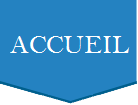
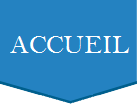
Revert "short link"
This reverts commit 11b1d239938d4fd386f1d654bec510ad1fd1024d.

diff --git a/articles.php b/articles.php
@@ -74,7 +74,7 @@
                     $au=$compteur + 1 - htmlspecialchars($donnees['article_uid']);
                     echo '<p class="mode mode'.$au.'" data-bg="'.$au.'">
                          <br/>        <span class="titreArticle">     '.htmlspecialchars($donnees[$nom]).'      </span>
-                          <br/> <br/> <a class="btn btn-lg btn-primary"  href="/'.htmlspecialchars($donnees['article_uid']).'"> <span style="display:block; font-size: 30px; font-weight: normal;font-family: inherit;"> '.$voirlarticle.'</span> </a>
+                          <br/> <br/> <a class="btn btn-lg btn-primary"  href="article.php?id='.htmlspecialchars($donnees['article_uid']).'"> <span style="display:block; font-size: 30px; font-weight: normal;font-family: inherit;"> '.$voirlarticle.'</span> </a>
                         </p>';
                   }
                   $reponse->closeCursor();
